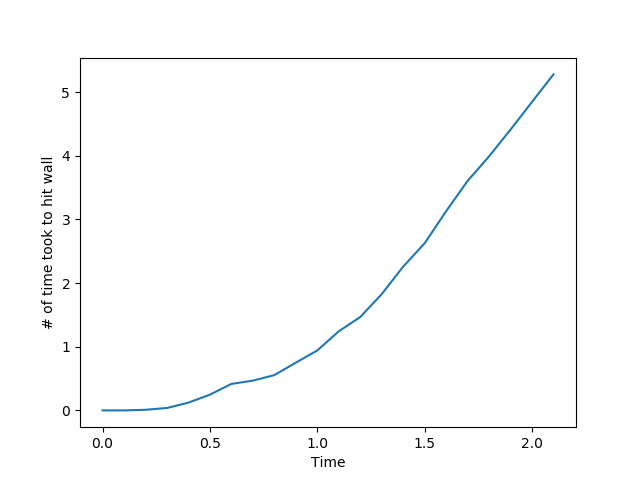
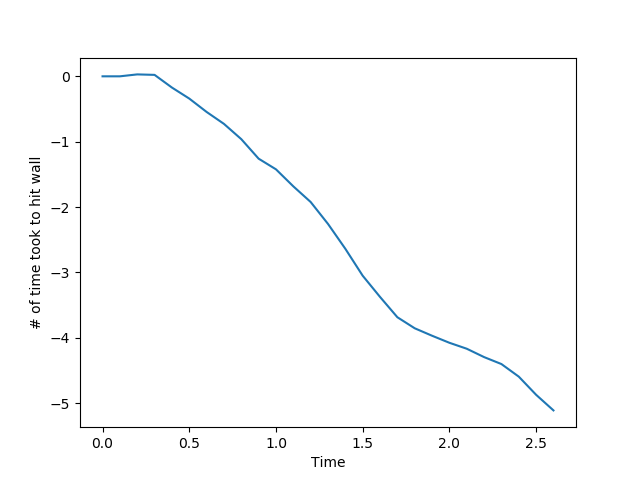
wall to 0 5

diff --git a/Project_1/Project_1.py b/Project_1/Project_1.py
@@ -43,9 +43,7 @@ def euler(time_step,velocity,position, damping_coef, temp):
     a = drag_f(damping_coef, velocity) + random_f(temp, damping_coef,K_B=1,epsi=1)
     new_velocity = velocity + a*time_step
     new_position = position + velocity * time_step
-    #print(new_position)
-    #print("rf", random_f(temp, damping_coef,K_B=1,epsi=1)
-    #print("v,p=", new_velocity,new_position)
+
     return new_velocity, new_position
 
 def write_output(output):
@@ -78,7 +76,7 @@ def hit_wall(time_step, new_velocity, new_position, damping_coef, temp, wall,n):
         new_velocity = new_vel
         position.append(new_position)
         Time.append(time)
-        if new_position > wall or new_position < -wall:
+        if new_position > wall or new_position < 0:
             return time, position, Time
 
 

diff --git a/tests/test_Project_1.py b/tests/test_Project_1.py
@@ -4,9 +4,10 @@
 """Tests for `Project_1` package."""
 
 import pytest
-
+#import matplotlib
+#import matplotlib.pyplot as plt
 from click.testing import CliRunner
-
+import Project_1
 from Project_1 import Project_1
 import io
 import os
